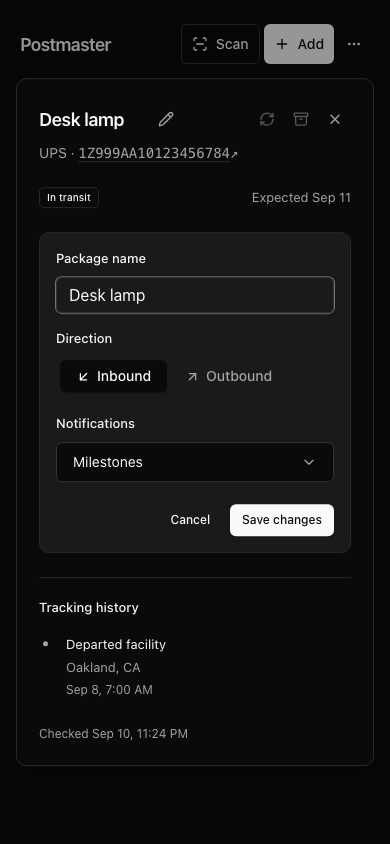
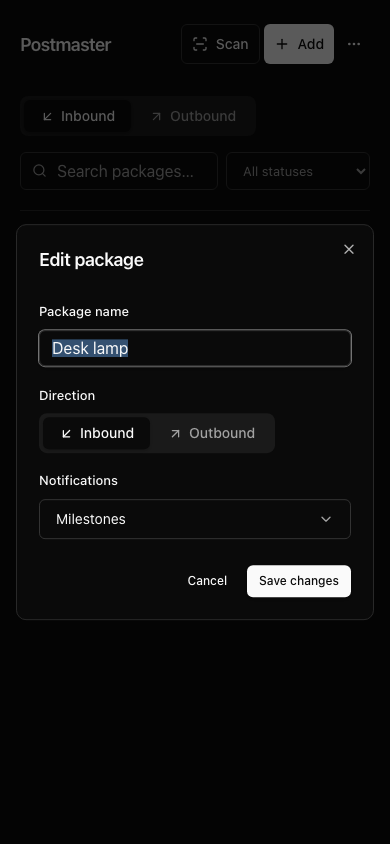
Open package editor in a modal over tracking details

diff --git a/web/src/main.tsx b/web/src/main.tsx
@@ -755,6 +755,7 @@ function Detail({
                 hint="Change name, direction, and notifications"
                 disabled={disabled}
                 aria-expanded={editing}
+                aria-haspopup="dialog"
                 onClick={() => {
                   setName(pkg.name);
                   setDirection(pkg.direction ?? "inbound");
@@ -851,118 +852,148 @@ function Detail({
             {pkg.error}
           </p>
         )}
-        {editing && (
-          <form
-            className="package-edit-panel"
-            aria-label="Edit package"
-            onSubmit={(event) => {
+        <Dialog
+          open={editing}
+          onOpenChange={(open) => {
+            if (busy) return;
+            setEditing(open);
+            if (!open) setError("");
+          }}
+        >
+          <DialogContent
+            className="package-dialog package-editor-dialog"
+            onCloseAutoFocus={(event) => {
               event.preventDefault();
-              if (!name.trim()) return;
-              void run(
-                () =>
-                  mutate(pkg.id, {
-                    name: name.trim(),
-                    direction,
-                    notificationMode,
-                  }),
-                () => setEditing(false),
-              );
+              detailRef.current
+                ?.querySelector<HTMLButtonElement>(
+                  '[aria-label="Edit package"]',
+                )
+                ?.focus();
             }}
           >
-            <div className="form-field">
-              <label htmlFor="rename-package">Package name</label>
-              <Input
-                id="rename-package"
-                autoFocus
-                value={name}
-                onChange={(event) => setName(event.target.value)}
-                required
-                maxLength={200}
-                disabled={disabled}
-              />
-            </div>
-            <div className="detail-fields">
+            <DialogHeader>
+              <DialogTitle>Edit package</DialogTitle>
+              <DialogDescription className="sr-only">
+                Change the name, direction, and notifications for this shipment.
+              </DialogDescription>
+            </DialogHeader>
+            <form
+              className="package-edit-panel"
+              aria-label="Edit package"
+              onSubmit={(event) => {
+                event.preventDefault();
+                if (!name.trim()) return;
+                void run(
+                  () =>
+                    mutate(pkg.id, {
+                      name: name.trim(),
+                      direction,
+                      notificationMode,
+                    }),
+                  () => setEditing(false),
+                );
+              }}
+            >
               <div className="form-field">
-                <label>Direction</label>
-                <DirectionPicker
-                  value={direction}
+                <label htmlFor="rename-package">Package name</label>
+                <Input
+                  id="rename-package"
+                  autoFocus
+                  value={name}
+                  onChange={(event) => setName(event.target.value)}
+                  required
+                  maxLength={200}
                   disabled={disabled}
-                  onChange={setDirection}
                 />
               </div>
-              <div className="form-field">
-                <label htmlFor="notification-mode">Notifications</label>
-                <DropdownMenu>
-                  <DropdownMenuTrigger asChild>
-                    <Button
-                      type="button"
-                      id="notification-mode"
-                      aria-label="Notifications"
-                      variant="outline"
-                      className="notification-select"
-                      disabled={disabled}
-                    >
-                      <span>
-                        {
+              <div className="detail-fields">
+                <div className="form-field">
+                  <label>Direction</label>
+                  <DirectionPicker
+                    value={direction}
+                    disabled={disabled}
+                    onChange={setDirection}
+                  />
+                </div>
+                <div className="form-field">
+                  <label htmlFor="notification-mode">Notifications</label>
+                  <DropdownMenu>
+                    <DropdownMenuTrigger asChild>
+                      <Button
+                        type="button"
+                        id="notification-mode"
+                        aria-label="Notifications"
+                        variant="outline"
+                        className="notification-select"
+                        disabled={disabled}
+                      >
+                        <span>
                           {
-                            milestones: "Milestones",
-                            detailed: "Every update",
-                            muted: "Muted",
-                          }[notificationMode]
-                        }
-                      </span>
-                      <ChevronDown aria-hidden="true" />
-                    </Button>
-                  </DropdownMenuTrigger>
-                  <DropdownMenuContent
-                    className="notification-menu"
-                    align="start"
-                    sideOffset={6}
-                    collisionPadding={16}
-                  >
-                    <DropdownMenuRadioGroup
-                      value={notificationMode}
-                      onValueChange={(value) =>
-                        setNotificationMode(value as NotificationMode)
-                      }
+                            {
+                              milestones: "Milestones",
+                              detailed: "Every update",
+                              muted: "Muted",
+                            }[notificationMode]
+                          }
+                        </span>
+                        <ChevronDown aria-hidden="true" />
+                      </Button>
+                    </DropdownMenuTrigger>
+                    <DropdownMenuContent
+                      className="notification-menu"
+                      align="start"
+                      sideOffset={6}
+                      collisionPadding={16}
                     >
-                      <DropdownMenuRadioItem value="milestones">
-                        Milestones
-                      </DropdownMenuRadioItem>
-                      <DropdownMenuRadioItem value="detailed">
-                        Every update
-                      </DropdownMenuRadioItem>
-                      <DropdownMenuRadioItem value="muted">
-                        Muted
-                      </DropdownMenuRadioItem>
-                    </DropdownMenuRadioGroup>
-                  </DropdownMenuContent>
-                </DropdownMenu>
+                      <DropdownMenuRadioGroup
+                        value={notificationMode}
+                        onValueChange={(value) =>
+                          setNotificationMode(value as NotificationMode)
+                        }
+                      >
+                        <DropdownMenuRadioItem value="milestones">
+                          Milestones
+                        </DropdownMenuRadioItem>
+                        <DropdownMenuRadioItem value="detailed">
+                          Every update
+                        </DropdownMenuRadioItem>
+                        <DropdownMenuRadioItem value="muted">
+                          Muted
+                        </DropdownMenuRadioItem>
+                      </DropdownMenuRadioGroup>
+                    </DropdownMenuContent>
+                  </DropdownMenu>
+                </div>
               </div>
-            </div>
-            <div className="dialog-actions">
-              <Button
-                variant="ghost"
-                size="sm"
-                type="button"
-                disabled={busy}
-                onClick={() => {
-                  setEditing(false);
-                  setError("");
-                }}
-              >
-                Cancel
-              </Button>
-              <Button
-                size="sm"
-                type="submit"
-                disabled={disabled || !name.trim()}
-              >
-                Save changes
-              </Button>
-            </div>
-          </form>
-        )}
+              {error && (
+                <p className="form-error" role="alert">
+                  {error}
+                </p>
+              )}
+              <div className="dialog-actions">
+                <Button
+                  variant="ghost"
+                  size="sm"
+                  type="button"
+                  disabled={busy}
+                  onClick={() => {
+                    setEditing(false);
+                    setError("");
+                  }}
+                >
+                  Cancel
+                </Button>
+                <Button
+                  size="sm"
+                  type="submit"
+                  disabled={disabled || !name.trim()}
+                >
+                  Save changes
+                </Button>
+              </div>
+            </form>
+          </DialogContent>
+        </Dialog>
         {!trackingUrl && (
           <Button
             variant="ghost"
@@ -974,7 +1005,7 @@ function Detail({
             Copy tracking number
           </Button>
         )}
-        {error && (
+        {error && !editing && (
           <p className="form-error" role="alert">
             {error}
           </p>

diff --git a/tests/dashboard.spec.ts b/tests/dashboard.spec.ts
@@ -455,6 +455,7 @@ for (const colorScheme of ["light", "dark"] as const) {
     await page.keyboard.press("Enter");
     await expect(trigger).toHaveText("Milestones");
     await expect(trigger).toBeEnabled();
+    await dialog.getByRole("button", { name: "Cancel", exact: true }).click();
     await dialog
       .getByRole("button", { name: "Edit package", exact: true })
       .hover();
@@ -544,3 +545,64 @@ test("package editor saves all settings together and cancel discards drafts", as
     form.getByRole("button", { name: "Notifications", exact: true }),
   ).toHaveText("Muted");
 });
+
+for (const width of [390, 1280]) {
+  test(`package editor overlays tracking without moving it at ${width}px`, async ({
+    page,
+  }) => {
+    await page.setViewportSize({ width, height: 844 });
+    await page.goto("/");
+    await page.getByRole("button", { name: /Desk lamp/ }).click();
+    const detail = page.locator(".detail-dialog");
+    const timeline = detail.locator(".timeline");
+    const before = await timeline.boundingBox();
+    const edit = detail.getByRole("button", {
+      name: "Edit package",
+      exact: true,
+    });
+    await edit.click();
+    const editor = page.getByRole("dialog", {
+      name: "Edit package",
+      exact: true,
+    });
+    await expect(editor).toBeVisible();
+    await expect(page.getByRole("dialog")).toHaveCount(1);
+    expect(await timeline.boundingBox()).toEqual(before);
+    await expect(
+      editor.getByLabel("Package name", { exact: true }),
+    ).toBeFocused();
+    expect(
+      await editor.evaluate((el) => el.scrollWidth <= el.clientWidth),
+    ).toBe(true);
+    await editor
+      .getByLabel("Package name", { exact: true })
+      .fill("Unsaved name");
+    await page.keyboard.press("Escape");
+    await expect(editor).toHaveCount(0);
+    await expect(edit).toBeFocused();
+    await expect(detail).toBeVisible();
+    expect(await timeline.boundingBox()).toEqual(before);
+    await edit.click();
+    await expect(
+      editor.getByLabel("Package name", { exact: true }),
+    ).toHaveValue("Desk lamp");
+    await page.route("**/api/v1/packages/sample-inbound", async (route) => {
+      if (route.request().method() === "PATCH") {
+        await route.fulfill({
+          status: 503,
+          contentType: "application/json",
+          body: JSON.stringify({ error: "Could not save changes" }),
+        });
+      } else await route.continue();
+    });
+    await editor.getByRole("button", { name: "Save changes" }).click();
+    await expect(editor.getByRole("alert")).toContainText(
+      "Could not save changes",
+    );
+    await expect(editor).toBeVisible();
+    await page.mouse.click(5, 5);
+    await expect(editor).toHaveCount(0);
+    await expect(detail).toBeVisible();
+    await expect(edit).toBeFocused();
+  });
+}

diff --git a/web/src/styles.css b/web/src/styles.css
@@ -776,14 +776,13 @@ time {
   font-weight: 500;
 }
 
+.package-editor-dialog {
+  max-width: 420px;
+}
 .package-edit-panel {
   display: flex;
   flex-direction: column;
-  gap: 16px;
-  padding: 16px;
-  border: 1px solid var(--border);
-  border-radius: 10px;
-  background: var(--muted);
+  gap: 20px;
 }
 .package-edit-panel input {
   min-width: 0;

diff --git a/README.md b/README.md
@@ -15,7 +15,7 @@ Screenshots use demo packages, with no live shipment data.
 
 ## Use
 
-Choose **Inbound** for packages you are receiving or **Outbound** for packages you are sending. Add a tracking number and optional name in the dashboard or Mac app. In the dashboard and PWA, use the pencil beside the package name to edit its name, direction, and notifications together. **Save changes** applies all edits; **Cancel** discards them. Refresh and archive stay in the detail toolbar, with delayed tooltips explaining each glyph.
+Choose **Inbound** for packages you are receiving or **Outbound** for packages you are sending. Add a tracking number and optional name in the dashboard or Mac app. In the dashboard and PWA, the pencil beside the package name opens a modal editor for its name, direction, and notifications. The tracking view stays in place behind a dimmed backdrop. **Save changes** applies all edits; **Cancel**, Escape, or clicking outside discards them. Refresh and archive stay in the detail toolbar, with delayed tooltips explaining each glyph.
 
 The tracking number links directly to USPS, UPS, FedEx, OnTrac, or DHL, marked with ↗. Select OnTrac or DHL explicitly when automatic detection is ambiguous. DHL divisions and Other carrier use EasyPost auto-detection; Other opens the EasyPost tracking page when available, or offers a tracking-number copy button. FedEx standalone tracking uses EasyPost’s shared `FedExDefault` integration; the `FedEx` identifier selects the personal carrier-account integration instead. Choose **Milestones**, **Detailed**, or **Muted** alerts in the package editor. Milestones cover delivery, pickup, and problems; detailed mode includes scans and ETA changes.
 
